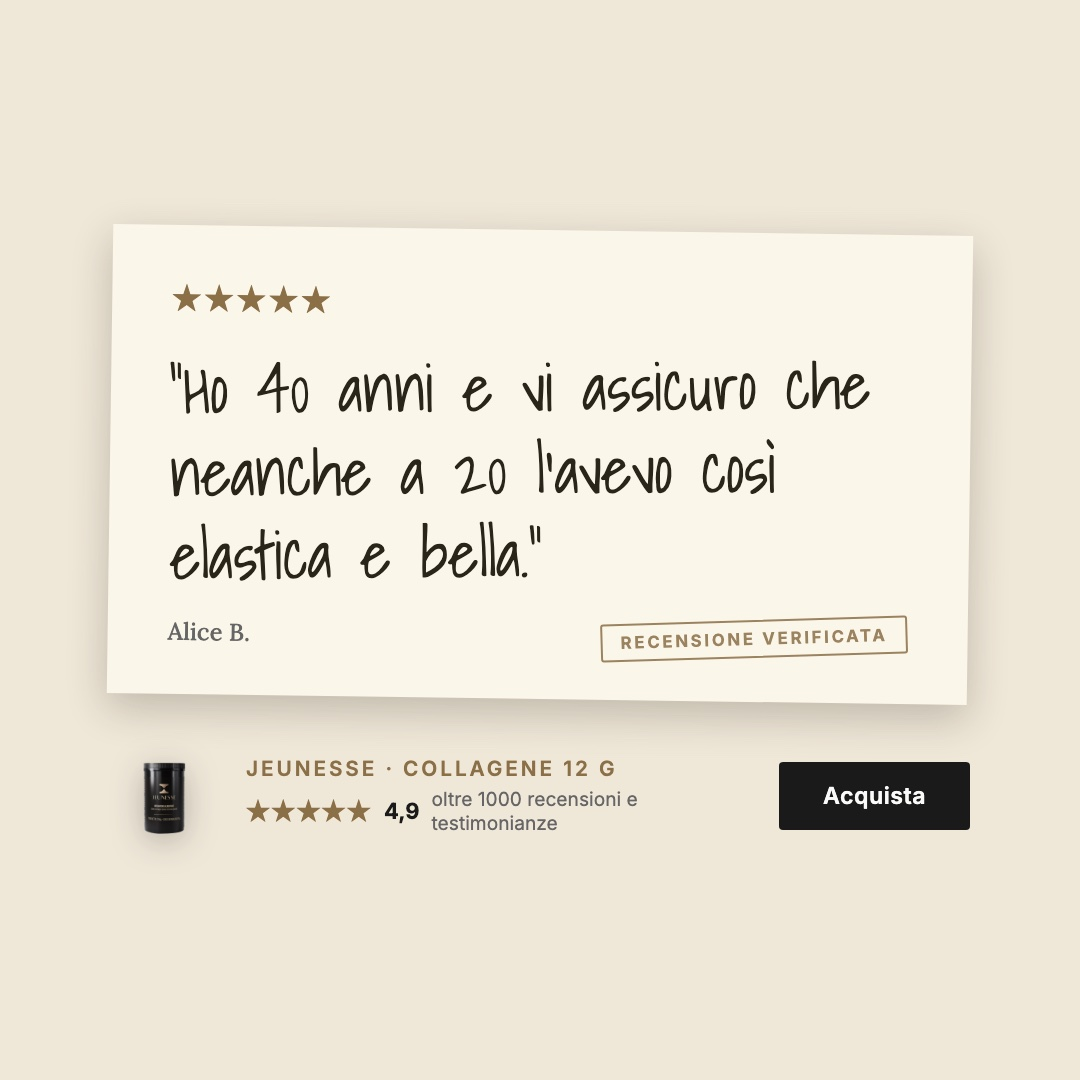
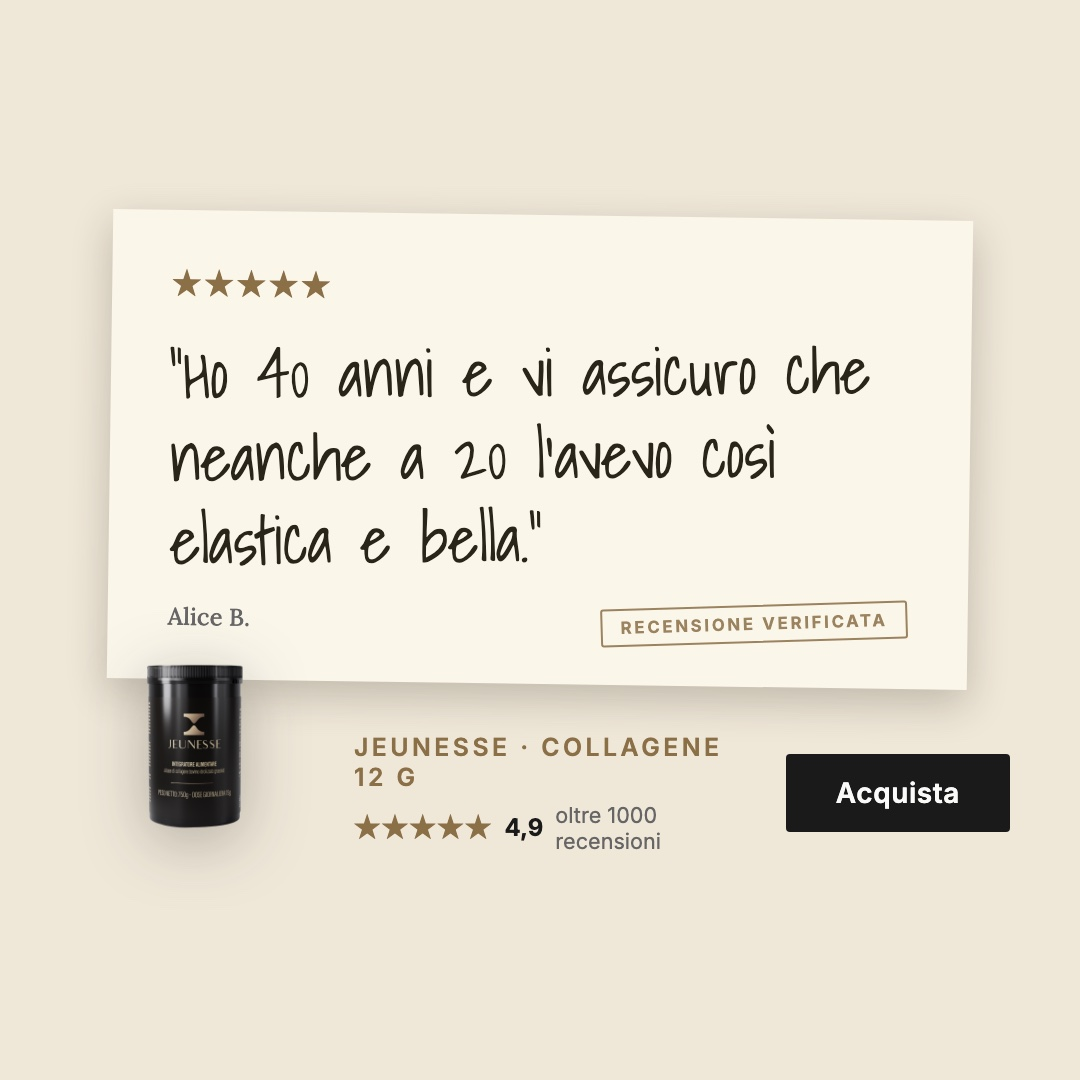
ads: batch #1006 rifinito (testi body piu grandi, barattoli grandi, 212 senza gergo, 217 costo/giorno)

diff --git a/ads/batch-1006.html b/ads/batch-1006.html
@@ -126,7 +126,7 @@ Salva le 3 immagini nella cartella di destinazione con i nomi esatti sopra. Poi 
 
 Jeunesse V2 usa COLLinstant ultra active+®, un collagene brevettato con peptidi sotto 1 kilodalton: frammenti piccolissimi, già pronti da assorbire.
 
-L'ingrediente è stato testato in uno studio randomizzato in doppio cieco su 80 donne, con soli 2,5 grammi al giorno per 6 settimane:
+L'ingrediente è stato testato in uno studio su 80 donne, con soli 2,5 grammi al giorno per 6 settimane:
 
 ✔ Volume delle rughe ridotto del 46% rispetto al placebo
 
@@ -198,7 +198,7 @@ Sono esperienze riportate, non promesse. Ma sono tante, e si somigliano.
       <tbody>
         <tr><td class="cnum">#210</td><td><span class="aw">Solution</span></td><td class="hookcell">"Prima di comprare un collagene, fai una sola domanda: quanto pesano i peptidi?"</td><td class="tcol">Manifesto Space Grotesk su paper, zero foto</td></tr>
         <tr><td class="cnum">#211</td><td><span class="aw">Solution</span></td><td class="hookcell">"Sotto 1 kilodalton: la soglia che decide quanto collagene assorbi davvero."</td><td class="tcol">Lavagna tecnica scura, scala dei kDa</td></tr>
-        <tr><td class="cnum">#212</td><td><span class="aw">Solution</span></td><td class="hookcell">"80 donne, sei settimane, doppio cieco."</td><td class="tcol">Stat card su crema: -46% / -44% / +34%</td></tr>
+        <tr><td class="cnum">#212</td><td><span class="aw">Solution</span></td><td class="hookcell">"80 donne, sei settimane, risultati misurati."</td><td class="tcol">Stat card su crema: -46% / -44% / +34%</td></tr>
         <tr><td class="cnum">#213</td><td><span class="aw">Solution</span></td><td class="hookcell">"Capelli e unghie si costruiscono con gli stessi mattoni. Se mancano, si vede."</td><td class="tcol">Foto barattolo in mano, pannello Marcellus</td></tr>
         <tr><td class="cnum">#214</td><td><span class="aw">Product</span></td><td class="hookcell">"Ciglia più lunghe. Non era nemmeno il motivo per cui l'avevano comprato."</td><td class="tcol">Beauty vanity, Prata su scrim caldo</td></tr>
         <tr><td class="cnum">#215</td><td><span class="aw">Product</span></td><td class="hookcell">"Ho 40 anni e vi assicuro che neanche a 20 l'avevo così elastica e bella." (Alice B.)</td><td class="tcol">Biglietto manoscritto + timbro verificata</td></tr>
